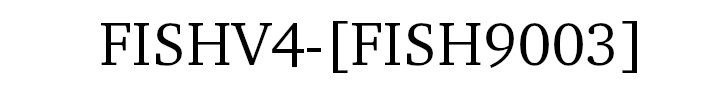
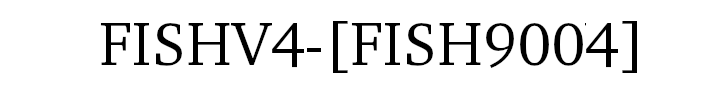
FISH9004: new weights

Changed region(s): [[0.7857, 0.2444, 0.8462, 0.7556]]

diff --git a/utils/yolov4.py b/utils/yolov4.py
@@ -6,6 +6,7 @@ import time
 import cv2 as cv
 import os
 
+
 def runYOLODetection(args):
     # load my fish class labels that my YOLO model was trained on
     labelsPath = os.path.sep.join([args["fishv4"], "fish.names"])
@@ -14,8 +15,7 @@ def runYOLODetection(args):
 
     # initialize a list of colors to represent each possible class label
     np.random.seed(0)
-    COLORS = np.random.randint(0, 255, size=(len(LABELS), 3),
-        dtype="uint8")
+    COLORS = np.random.randint(0, 255, size=(len(LABELS), 3), dtype="uint8")
     print(COLORS)
     #COLORS = np.array([255, 0, 0], dtype="uint8")
 
@@ -40,10 +40,10 @@ def runYOLODetection(args):
     # construct a blob from the input image and then perform a forward
     # pass of the YOLO object detector, giving us our bounding boxes and
     # associated probabilities
-    # NOTE: (608, 608) is my YOLO input image size. However, using 
+    # NOTE: (608, 608) is my YOLO input image size. However, using
     # (416, 416) results in much accutate result. Pretty interesting.
     blob = cv.dnn.blobFromImage(image, 1 / 255.0, (416, 416),
-        swapRB=True, crop=False)
+                                swapRB=True, crop=False)
     net.setInput(blob)
     start = time.time()
     layerOutputs = net.forward(ln)
@@ -91,8 +91,7 @@ def runYOLODetection(args):
 
     # apply non-maxima suppression to suppress weark and overlapping bounding
     # boxes
-    idxs = cv.dnn.NMSBoxes(boxes, confidences, args["confidence"],
-        args["threshold"])
+    idxs = cv.dnn.NMSBoxes(boxes, confidences, args["confidence"], args["threshold"])
 
     # ensure at least one detection exists
     if len(idxs) > 0:
@@ -106,10 +105,10 @@ def runYOLODetection(args):
             color = [int(c) for c in COLORS[classIDs[i]]]
             cv.rectangle(image, (x, y), (x + w, y + h), color, 2)
             text = "{}: {:.4f}".format(LABELS[classIDs[i]], confidences[i])
-            cv.putText(image, text, (x, y - 5), cv.FONT_HERSHEY_SIMPLEX,
-                0.5, color, 2)
+            cv.putText(image, text, (x, y - 5), cv.FONT_HERSHEY_SIMPLEX, 0.5, color, 2)
 
     return image
+
 
 def runYOLOBoundingBoxes(args):
     # load my fish class labels that my YOLO model was trained on
@@ -119,8 +118,7 @@ def runYOLOBoundingBoxes(args):
 
     # initialize a list of colors to represent each possible class label
     np.random.seed(0)
-    COLORS = np.random.randint(0, 255, size=(len(LABELS), 3),
-        dtype="uint8")
+    COLORS = np.random.randint(0, 255, size=(len(LABELS), 3), dtype="uint8")
     print(COLORS)
     #COLORS = np.array([255, 0, 0], dtype="uint8")
 
@@ -145,10 +143,10 @@ def runYOLOBoundingBoxes(args):
     # construct a blob from the input image and then perform a forward
     # pass of the YOLO object detector, giving us our bounding boxes and
     # associated probabilities
-    # NOTE: (608, 608) is my YOLO input image size. However, using 
+    # NOTE: (608, 608) is my YOLO input image size. However, using
     # (416, 416) results in much accutate result. Pretty interesting.
     blob = cv.dnn.blobFromImage(image, 1 / 255.0, (416, 416),
-        swapRB=True, crop=False)
+                                swapRB=True, crop=False)
     net.setInput(blob)
     start = time.time()
     layerOutputs = net.forward(ln)
@@ -196,10 +194,10 @@ def runYOLOBoundingBoxes(args):
 
     # apply non-maxima suppression to suppress weark and overlapping bounding
     # boxes
-    idxs = cv.dnn.NMSBoxes(boxes, confidences, args["confidence"],
-        args["threshold"])
+    idxs = cv.dnn.NMSBoxes(boxes, confidences, args["confidence"], args["threshold"])
 
     return image, boxes, idxs
+
 
 def runYOLOBoundingBoxes_streamlit(image, yolopath, _confidence, _threshold):
     # load my fish class labels that my YOLO model was trained on
@@ -208,8 +206,7 @@ def runYOLOBoundingBoxes_streamlit(image, yolopath, _confidence, _threshold):
 
     # initialize a list of colors to represent each possible class label
     np.random.seed(0)
-    COLORS = np.random.randint(0, 255, size=(len(LABELS), 3),
-        dtype="uint8")
+    COLORS = np.random.randint(0, 255, size=(len(LABELS), 3), dtype="uint8")
     print(COLORS)
     #COLORS = np.array([255, 0, 0], dtype="uint8")
 
@@ -231,10 +228,10 @@ def runYOLOBoundingBoxes_streamlit(image, yolopath, _confidence, _threshold):
     # construct a blob from the input image and then perform a forward
     # pass of the YOLO object detector, giving us our bounding boxes and
     # associated probabilities
-    # NOTE: (608, 608) is my YOLO input image size. However, using 
+    # NOTE: (608, 608) is my YOLO input image size. However, using
     # (416, 416) results in much accutate result. Pretty interesting.
     blob = cv.dnn.blobFromImage(image, 1 / 255.0, (416, 416),
-        swapRB=True, crop=False)
+                                swapRB=True, crop=False)
     net.setInput(blob)
     start = time.time()
     layerOutputs = net.forward(ln)
@@ -282,8 +279,7 @@ def runYOLOBoundingBoxes_streamlit(image, yolopath, _confidence, _threshold):
 
     # apply non-maxima suppression to suppress weark and overlapping bounding
     # boxes
-    idxs = cv.dnn.NMSBoxes(boxes, confidences, _confidence,
-        _threshold)
+    idxs = cv.dnn.NMSBoxes(boxes, confidences, _confidence, _threshold)
 
     return boxes, idxs
 
@@ -291,9 +287,12 @@ def runYOLOBoundingBoxes_streamlit(image, yolopath, _confidence, _threshold):
 if __name__ == '__main__':
     ap = argparse.ArgumentParser()
     ap.add_argument("-i", "--image", required=True, help="path to input image")
-    ap.add_argument("-y", "--yolo", required=True, help="base path to YOLO directory")
-    ap.add_argument("-c", "--confidence", type=float, default=0.30, help="minimum probability to filter weak detections")
-    ap.add_argument("-t", "--threshold", type=float, default=0.40, help="threshold when applying non-maxima suppression")
+    ap.add_argument("-y", "--yolo", required=True,
+                    help="base path to YOLO directory")
+    ap.add_argument("-c", "--confidence", type=float, default=0.30,
+                    help="minimum probability to filter weak detections")
+    ap.add_argument("-t", "--threshold", type=float, default=0.40,
+                    help="threshold when applying non-maxima suppression")
     args = vars(ap.parse_args())
 
     image = runYOLODetection(args)

diff --git a/app.py b/app.py
@@ -7,7 +7,7 @@ import streamlit as st
 
 from utils import yolov4 as yolo
 from utils import GrabCut
-from utils.draw_rectanges import draw_rectangles
+from utils.draw_rectangles import draw_rectangles
 
 
 def run():
@@ -35,11 +35,8 @@ def run():
                                         'Válidos (idxs)': [len(idxs)],}))
         result_images = GrabCut.runGrabCut(image, boxes, idxs)
 
-
         st.write("Here appears the rectangles that the algorithm recognize:")
-        
         img_mod=draw_rectangles(image,boxes,idxs)
-
         st.image(img_mod, channels="BGR", use_column_width=True)
 
         st.write("")

diff --git a/README.md b/README.md
@@ -3,7 +3,7 @@
 ![](img/fish4.png)
 
 Fish detection and segmentation based on YOLOv3 that use GrabCut to do semantic segmentation to fish market images.
-Trained by [FISH9003](https://github.com/DZPeru/fish-datasets)
+Trained by [FISH9004](https://github.com/DZPeru/fish-datasets)
 
 # How to run
 
@@ -32,7 +32,7 @@ Locally:
 git clone https://github.com/DZPeru/fishv4
 cd fishv4
 pip3 install -r requirements.txt
-gdown --output ./fishv4/fish.weights --id 1_Uo_jB4ZVsBRA7I3MLisq_GZ8EQHeWr9
+gdown --output ./fishv4/fish.weights --id 1tA77_b34p5iz_prf-hY_tP7uttjahSO9
 ```
 
 ## Conda version
@@ -44,10 +44,10 @@ conda activate fishv4
 pip install -r requirements.txt
 ```
 
-Download the weights of the neural network to your local repository. Or do it manually, downloading from [Google Drive](https://drive.google.com/file/d/1_Uo_jB4ZVsBRA7I3MLisq_GZ8EQHeWr9/view?usp=sharing).
+Download the weights of the neural network to your local repository. Or do it manually, downloading from [Google Drive](https://drive.google.com/file/d/1tA77_b34p5iz_prf-hY_tP7uttjahSO9/view?usp=sharing).
 
 ```
-gdown --output ./fishv4/fish.weights --id 1_Uo_jB4ZVsBRA7I3MLisq_GZ8EQHeWr9
+gdown --output ./fishv4/fish.weights --id 1tA77_b34p5iz_prf-hY_tP7uttjahSO9
 ```
 
 ### 1. Command Line Approach
